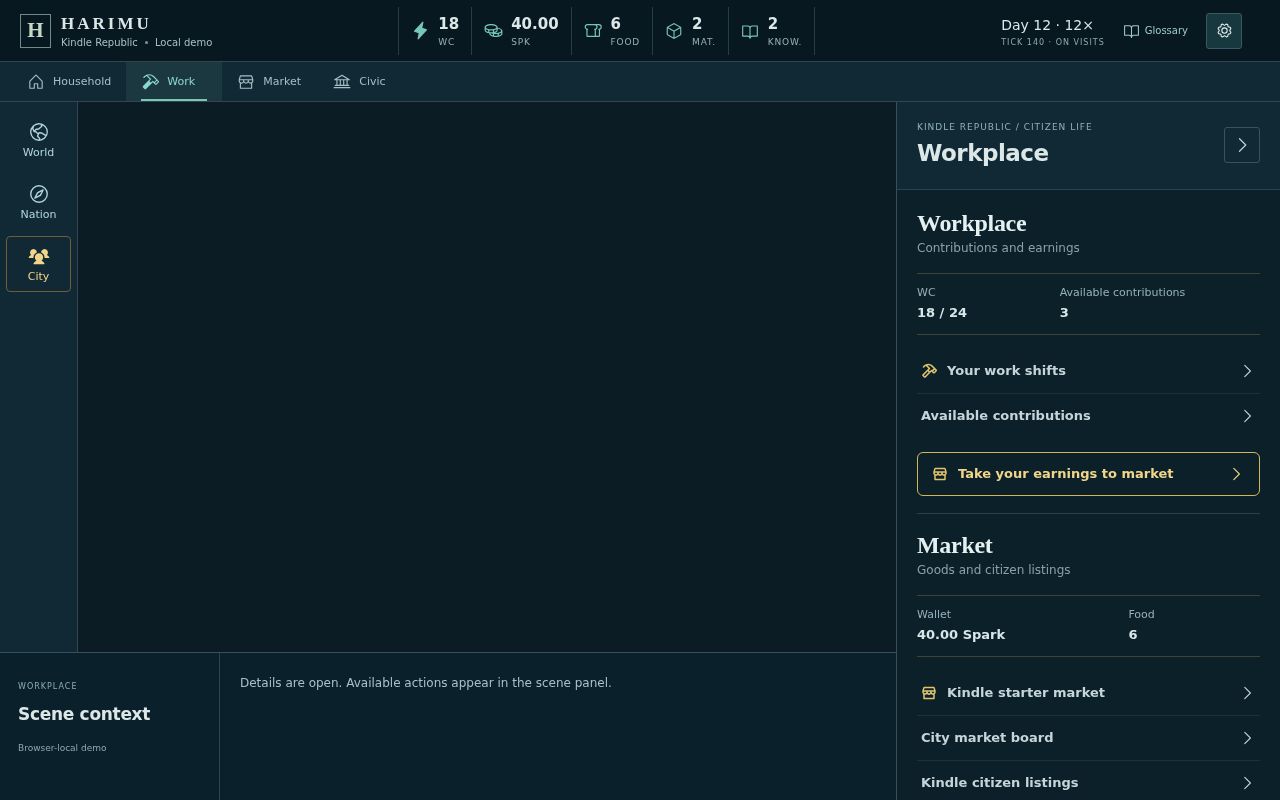
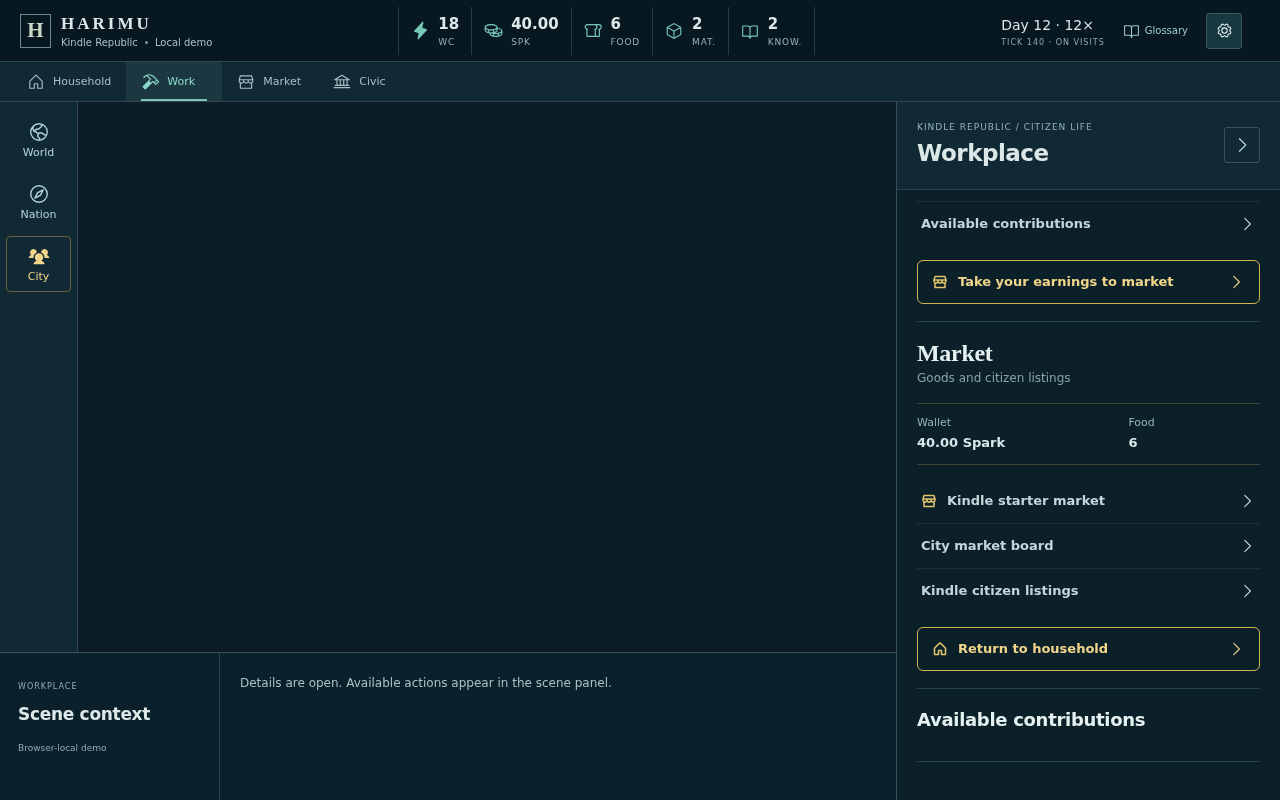
S10 follow-ups (QA2): rows move focus to the target heading; Kindle starter row only for Kindle; S10 shots regenerated after fonts load (Refs #870)

diff --git a/app/scene-panels-v2.tsx b/app/scene-panels-v2.tsx
@@ -65,18 +65,19 @@ export function HouseholdSummary({ nation, walletMinor, inventory, pantry = true
 
 /** #392 S10 (NEXT_PUBLIC_HARIMU_UI_V2_PANEL): the Work and Market panel heads, in the S3 shape. Existing copy and data only: the titles and taglines are the City
  *  destination cards', the rows jump to the sections already below (nothing is removed or moved), and the primary is the view's existing closing action. */
-const jump = (selector: string) => () => { const el = document.querySelector<HTMLElement>(selector); el?.scrollIntoView({ block: 'start' }); el?.querySelector<HTMLElement>('h2, h3')?.focus?.(); };
+// #894 (QA2): the target heading (or the section itself) takes programmatic focus (tabIndex -1), so tapping a row moves focus there, not just the scroll.
+const jump = (selector: string) => () => { const el = document.querySelector<HTMLElement>(selector); if (!el) return; el.scrollIntoView({ block: 'start' }); const target = el.querySelector<HTMLElement>('h2, h3') ?? el; target.tabIndex = -1; target.focus({ preventScroll: true }); };
 export function WorkSummary({ capacity, contributions, onMarket, enabled = uiV2PanelEnabled() }: { capacity: number; contributions: number; onMarket?: () => void; enabled?: boolean }) {
   if (!enabled) return null;
   return <PanelV2 title="Workplace" subtitle="Contributions and earnings" rowsLabel="Workplace" stats={[{ label: 'WC', value: `${capacity} / 24` }, { label: 'Available contributions', value: String(contributions) }]}
     rows={[{ id: 'shifts', label: 'Your work shifts', icon: cityPlaceIcon('workplace'), onSelect: jump('#citizen-work-shifts') }, { id: 'orders', label: 'Available contributions', onSelect: jump('.scene-work-orders') }]}
     primary={onMarket ? { label: 'Take your earnings to market', icon: cityPlaceIcon('market'), onSelect: onMarket } : undefined} />;
 }
-export function MarketSummary({ nation, walletMinor, food, board, listings, onHousehold, enabled = uiV2PanelEnabled() }: { nation: Pick<Nation, 'name' | 'currency'>; walletMinor?: number | null; food?: number | null; board: boolean; listings: boolean; onHousehold: () => void; enabled?: boolean }) {
+export function MarketSummary({ nation, walletMinor, food, board, listings, onHousehold, enabled = uiV2PanelEnabled() }: { nation: Pick<Nation, 'id' | 'name' | 'currency'>; walletMinor?: number | null; food?: number | null; board: boolean; listings: boolean; onHousehold: () => void; enabled?: boolean }) {
   if (!enabled) return null;
   return <PanelV2 title="Market" subtitle="Goods and citizen listings" rowsLabel="Market"
     stats={[...(walletMinor == null ? [] : [{ label: 'Wallet', value: `${(walletMinor / 100).toFixed(2)} ${nation.currency}` }]), ...(food == null ? [] : [{ label: 'Food', value: String(food) }])]}
-    rows={[{ id: 'starter', label: 'Kindle starter market', icon: cityPlaceIcon('market'), onSelect: jump('.citizen-market:not(.player-market)') },
+    rows={[...(nation.id === 'kindle' ? [{ id: 'starter', label: 'Kindle starter market', icon: cityPlaceIcon('market'), onSelect: jump('.citizen-market:not(.player-market)') }] : []), // #894 (QA2): the Kindle-named row only for Kindle
       ...(board ? [{ id: 'board', label: 'City market board', onSelect: jump('.market-board') }] : []), ...(listings ? [{ id: 'listings', label: 'Kindle citizen listings', onSelect: jump('.player-market') }] : [])]}
     primary={{ label: 'Return to household', icon: cityPlaceIcon('household'), onSelect: onHousehold }} />;
 }
